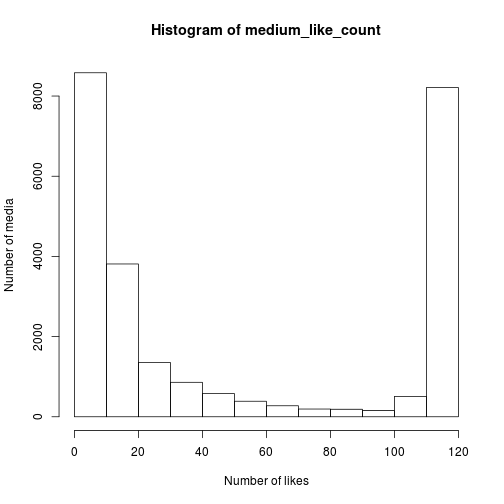
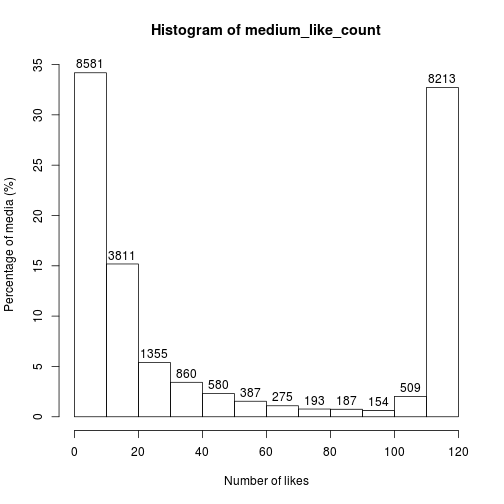
Show % and count in graph.

diff --git a/data-analysis/analysis-user-like-medium.md b/data-analysis/analysis-user-like-medium.md
@@ -1,4 +1,4 @@
-Data Analysis of `user-like-medium.csv`
+Data Analysis of [user-like-medium.csv](../data/user-like-medium.csv)
 ========================================================
 
 ## Read Data
@@ -18,14 +18,6 @@ anyDuplicated(likes)
 
 ```
 ## [1] 0
-```
-
-
-## Preprocess Data
-
-```r
-# Remove '_' from medium ID (so we can use rle() later)
-likes$medium <- gsub("_", "", likes$medium)
 ```
 
 
@@ -67,7 +59,7 @@ num_media
 
 ```r
 # Count number of likes for each user.
-user_like_count <- rle(sort(likes$user))$lengths
+user_like_count <- data.frame(table(likes$user))$Freq
 # Display summary of number of likes for each user.
 summary(user_like_count)
 ```
@@ -78,53 +70,32 @@ summary(user_like_count)
 ```
 
 ```r
-# Draw histogram:
-#   - x: number of likes
-#   - y: number of users
+# Only includes counts > 20 to make histogram concise.
 user_like_count_lt20 <- user_like_count[user_like_count < 20]
-histogram <- hist(user_like_count_lt20,
-                  breaks=seq(0, 20),
-                  main="Histogram of user_like_count < 20",
-                  xlab="Number of likes",
-                  ylab="Number of users")
+# Get histogram object.
+h <- hist(user_like_count_lt20,
+          breaks=seq(0, 20),
+          plot=FALSE)
+
+# Change density to percentage.
+h$density <- (h$counts / num_users) * 100
+
+# Plot histogram (with counts on top of bars).
+plot(h, freq=FALSE, labels=paste(h$counts),
+     main="Histogram of user_like_count < 20",
+     xlab="Number of likes",
+     ylab="Percentage of users (%)")
 ```
 
 ![plot of chunk UserLikeDistribution](figure/UserLikeDistribution.png) 
-
-```r
-histogram$breaks
-```
-
-```
-##  [1]  0  1  2  3  4  5  6  7  8  9 10 11 12 13 14 15 16 17 18 19 20
-```
-
-```r
-histogram$counts
-```
-
-```
-##  [1] 103042  31936  16667  10342   7124   5239   4025   3052   2570   2224
-## [11]   1798   1586   1266   1185   1087    888    834    733    669      0
-```
-
-```r
-# Percentage
-100 * histogram$counts / num_users
-```
-
-```
-##  [1] 49.4282 15.3194  7.9950  4.9610  3.4173  2.5131  1.9308  1.4640
-##  [9]  1.2328  1.0668  0.8625  0.7608  0.6073  0.5684  0.5214  0.4260
-## [17]  0.4001  0.3516  0.3209  0.0000
-```
 
 
 ### Medium-Based
 
 ```r
 # Count number of likes for each medium.
-medium_like_count <- rle(sort(likes$medium))$lengths
+medium_like_count <- data.frame(table(likes$medium))$Freq
+
 # Display summary of number of likes for each medium.
 summary(medium_like_count)
 ```
@@ -135,39 +106,18 @@ summary(medium_like_count)
 ```
 
 ```r
-# Draw histogram:
-#   - x: number of likes
-#   - y: number of media
-histogram <- hist(medium_like_count,
-                  xlab="Number of likes",
-                  ylab="Number of media")
+# Get histogram object.
+h <- hist(medium_like_count,
+          plot=FALSE)
+
+# Change density to percentage.
+h$density <- (h$counts / num_media) * 100
+
+# Plot histogram (with counts on top of bars).
+plot(h, freq=FALSE, labels=paste(h$counts),
+     xlab="Number of likes",
+     ylab="Percentage of media (%)")
 ```
 
 ![plot of chunk MediumLikeDistribution](figure/MediumLikeDistribution.png) 
-
-```r
-histogram$breaks
-```
-
-```
-##  [1]   0  10  20  30  40  50  60  70  80  90 100 110 120
-```
-
-```r
-histogram$counts
-```
-
-```
-##  [1] 8581 3811 1355  860  580  387  275  193  187  154  509 8213
-```
-
-```r
-# Percentage
-100 * histogram$counts / num_media
-```
-
-```
-##  [1] 34.1804 15.1802  5.3973  3.4256  2.3103  1.5415  1.0954  0.7688
-##  [9]  0.7449  0.6134  2.0275 32.7146
-```
 
